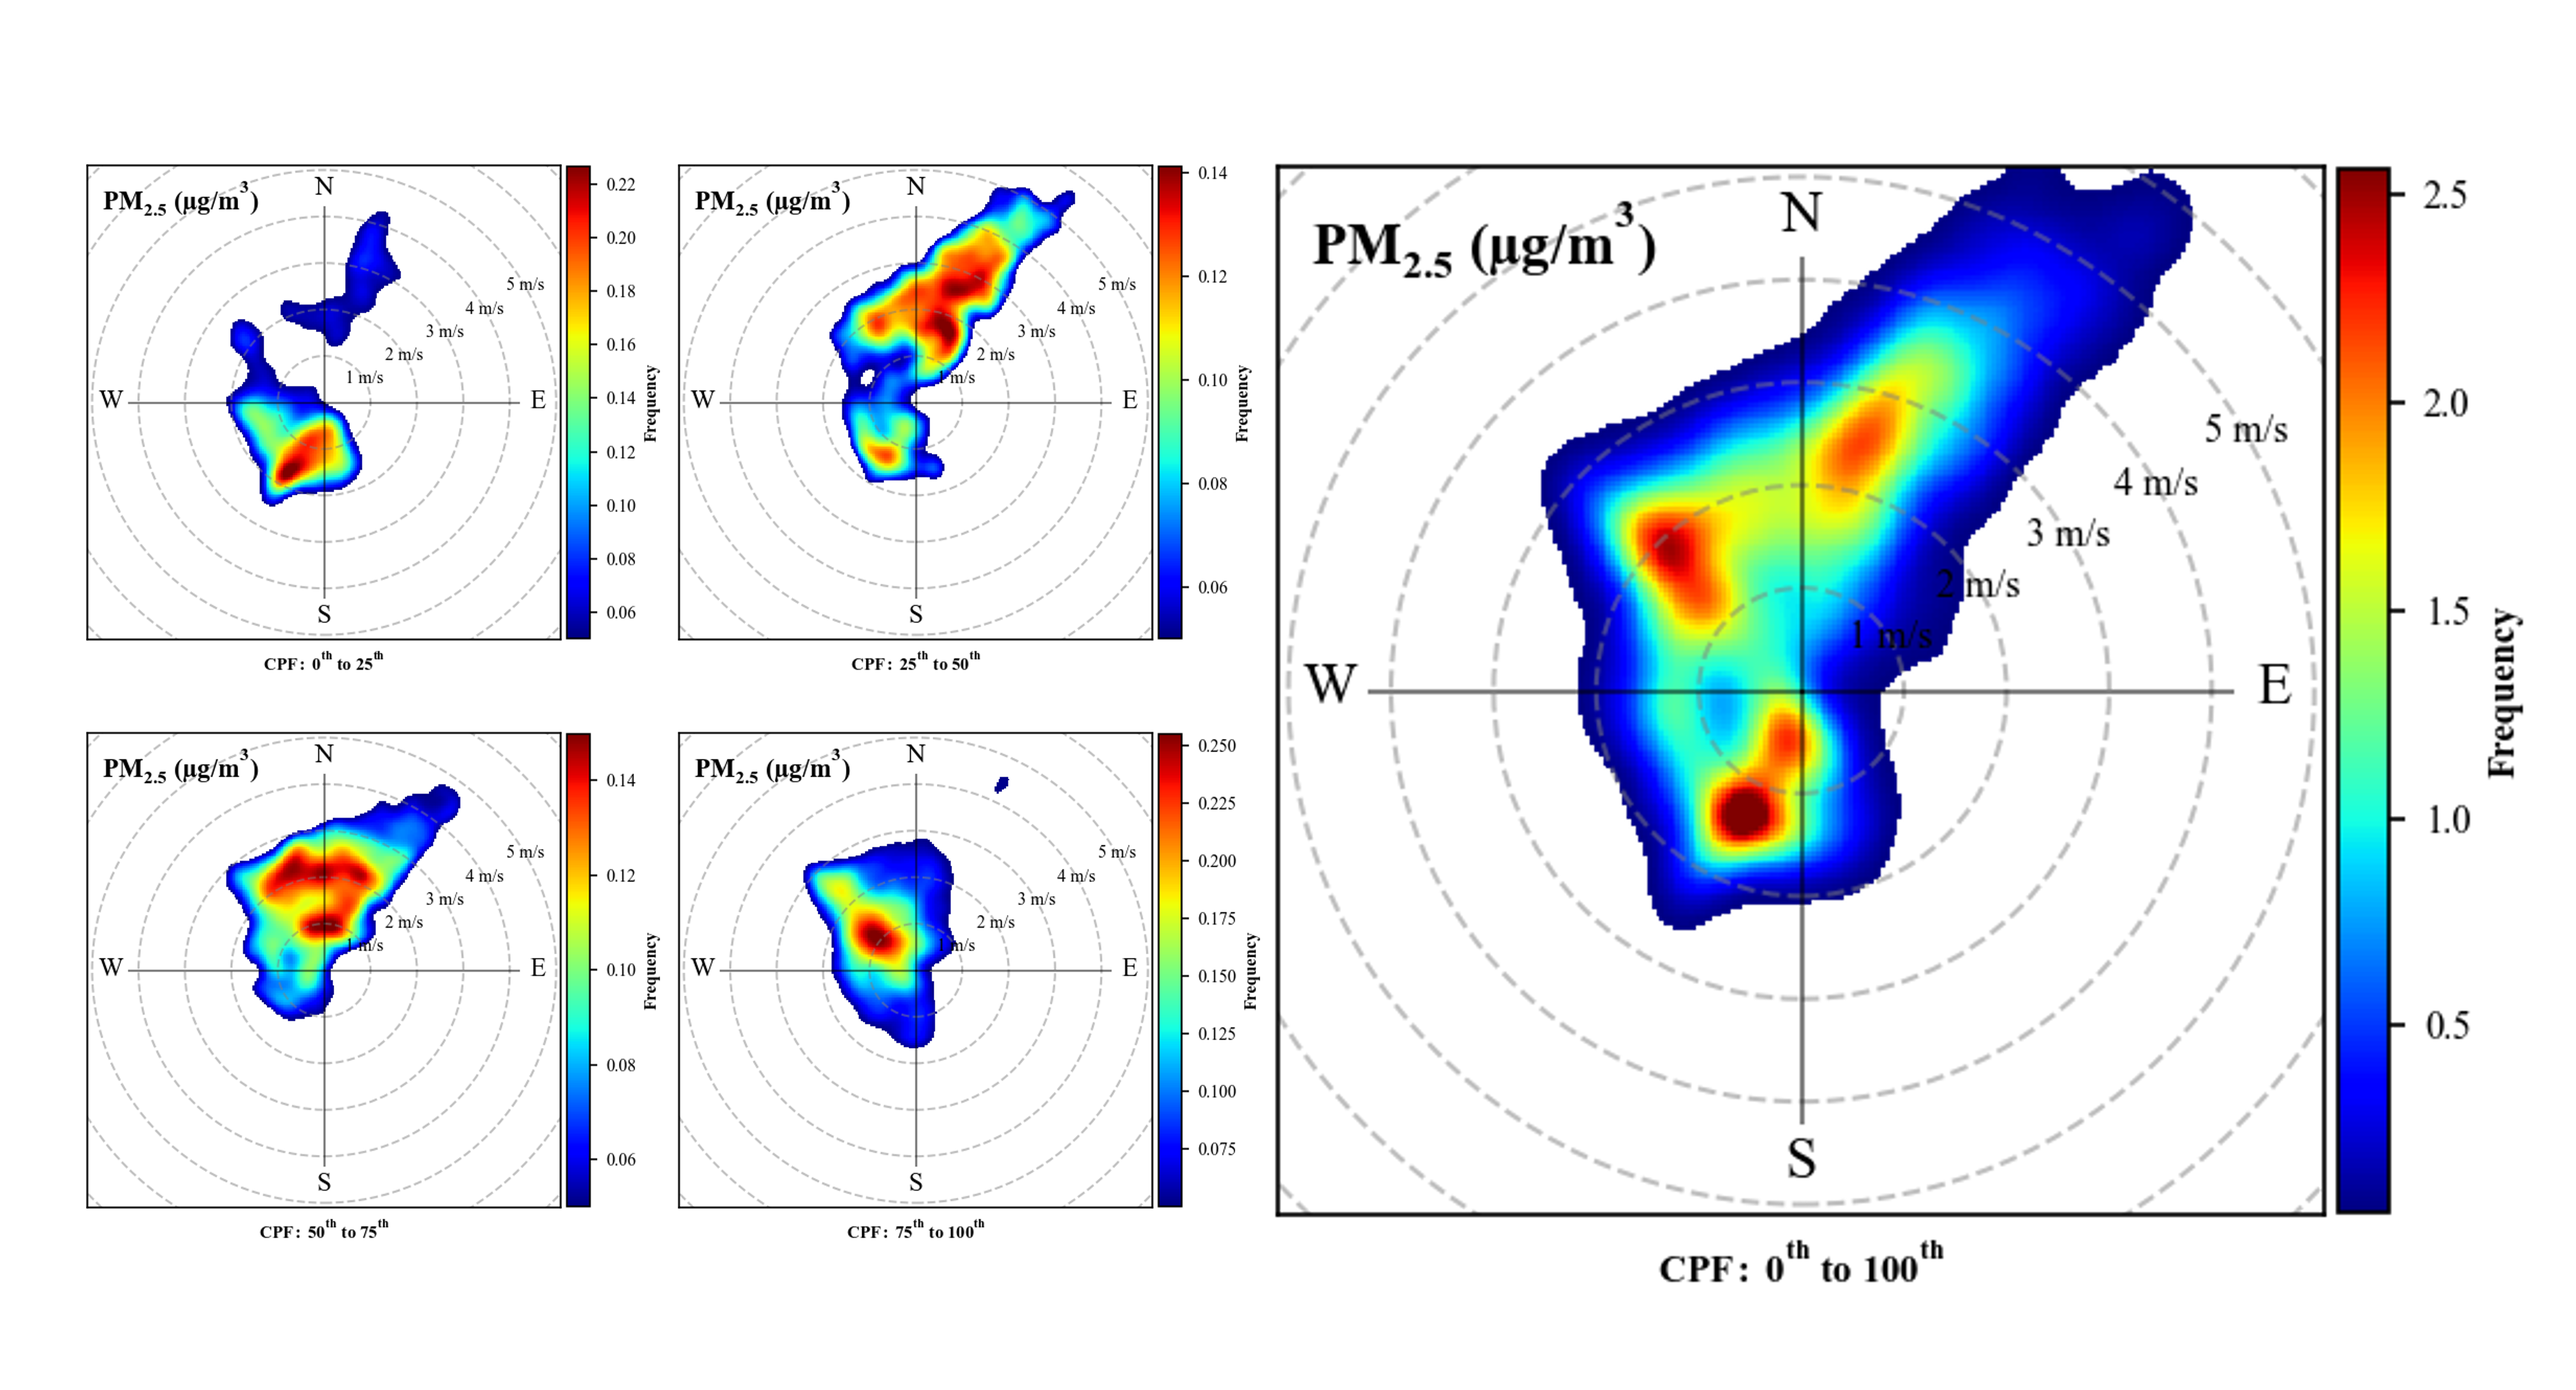
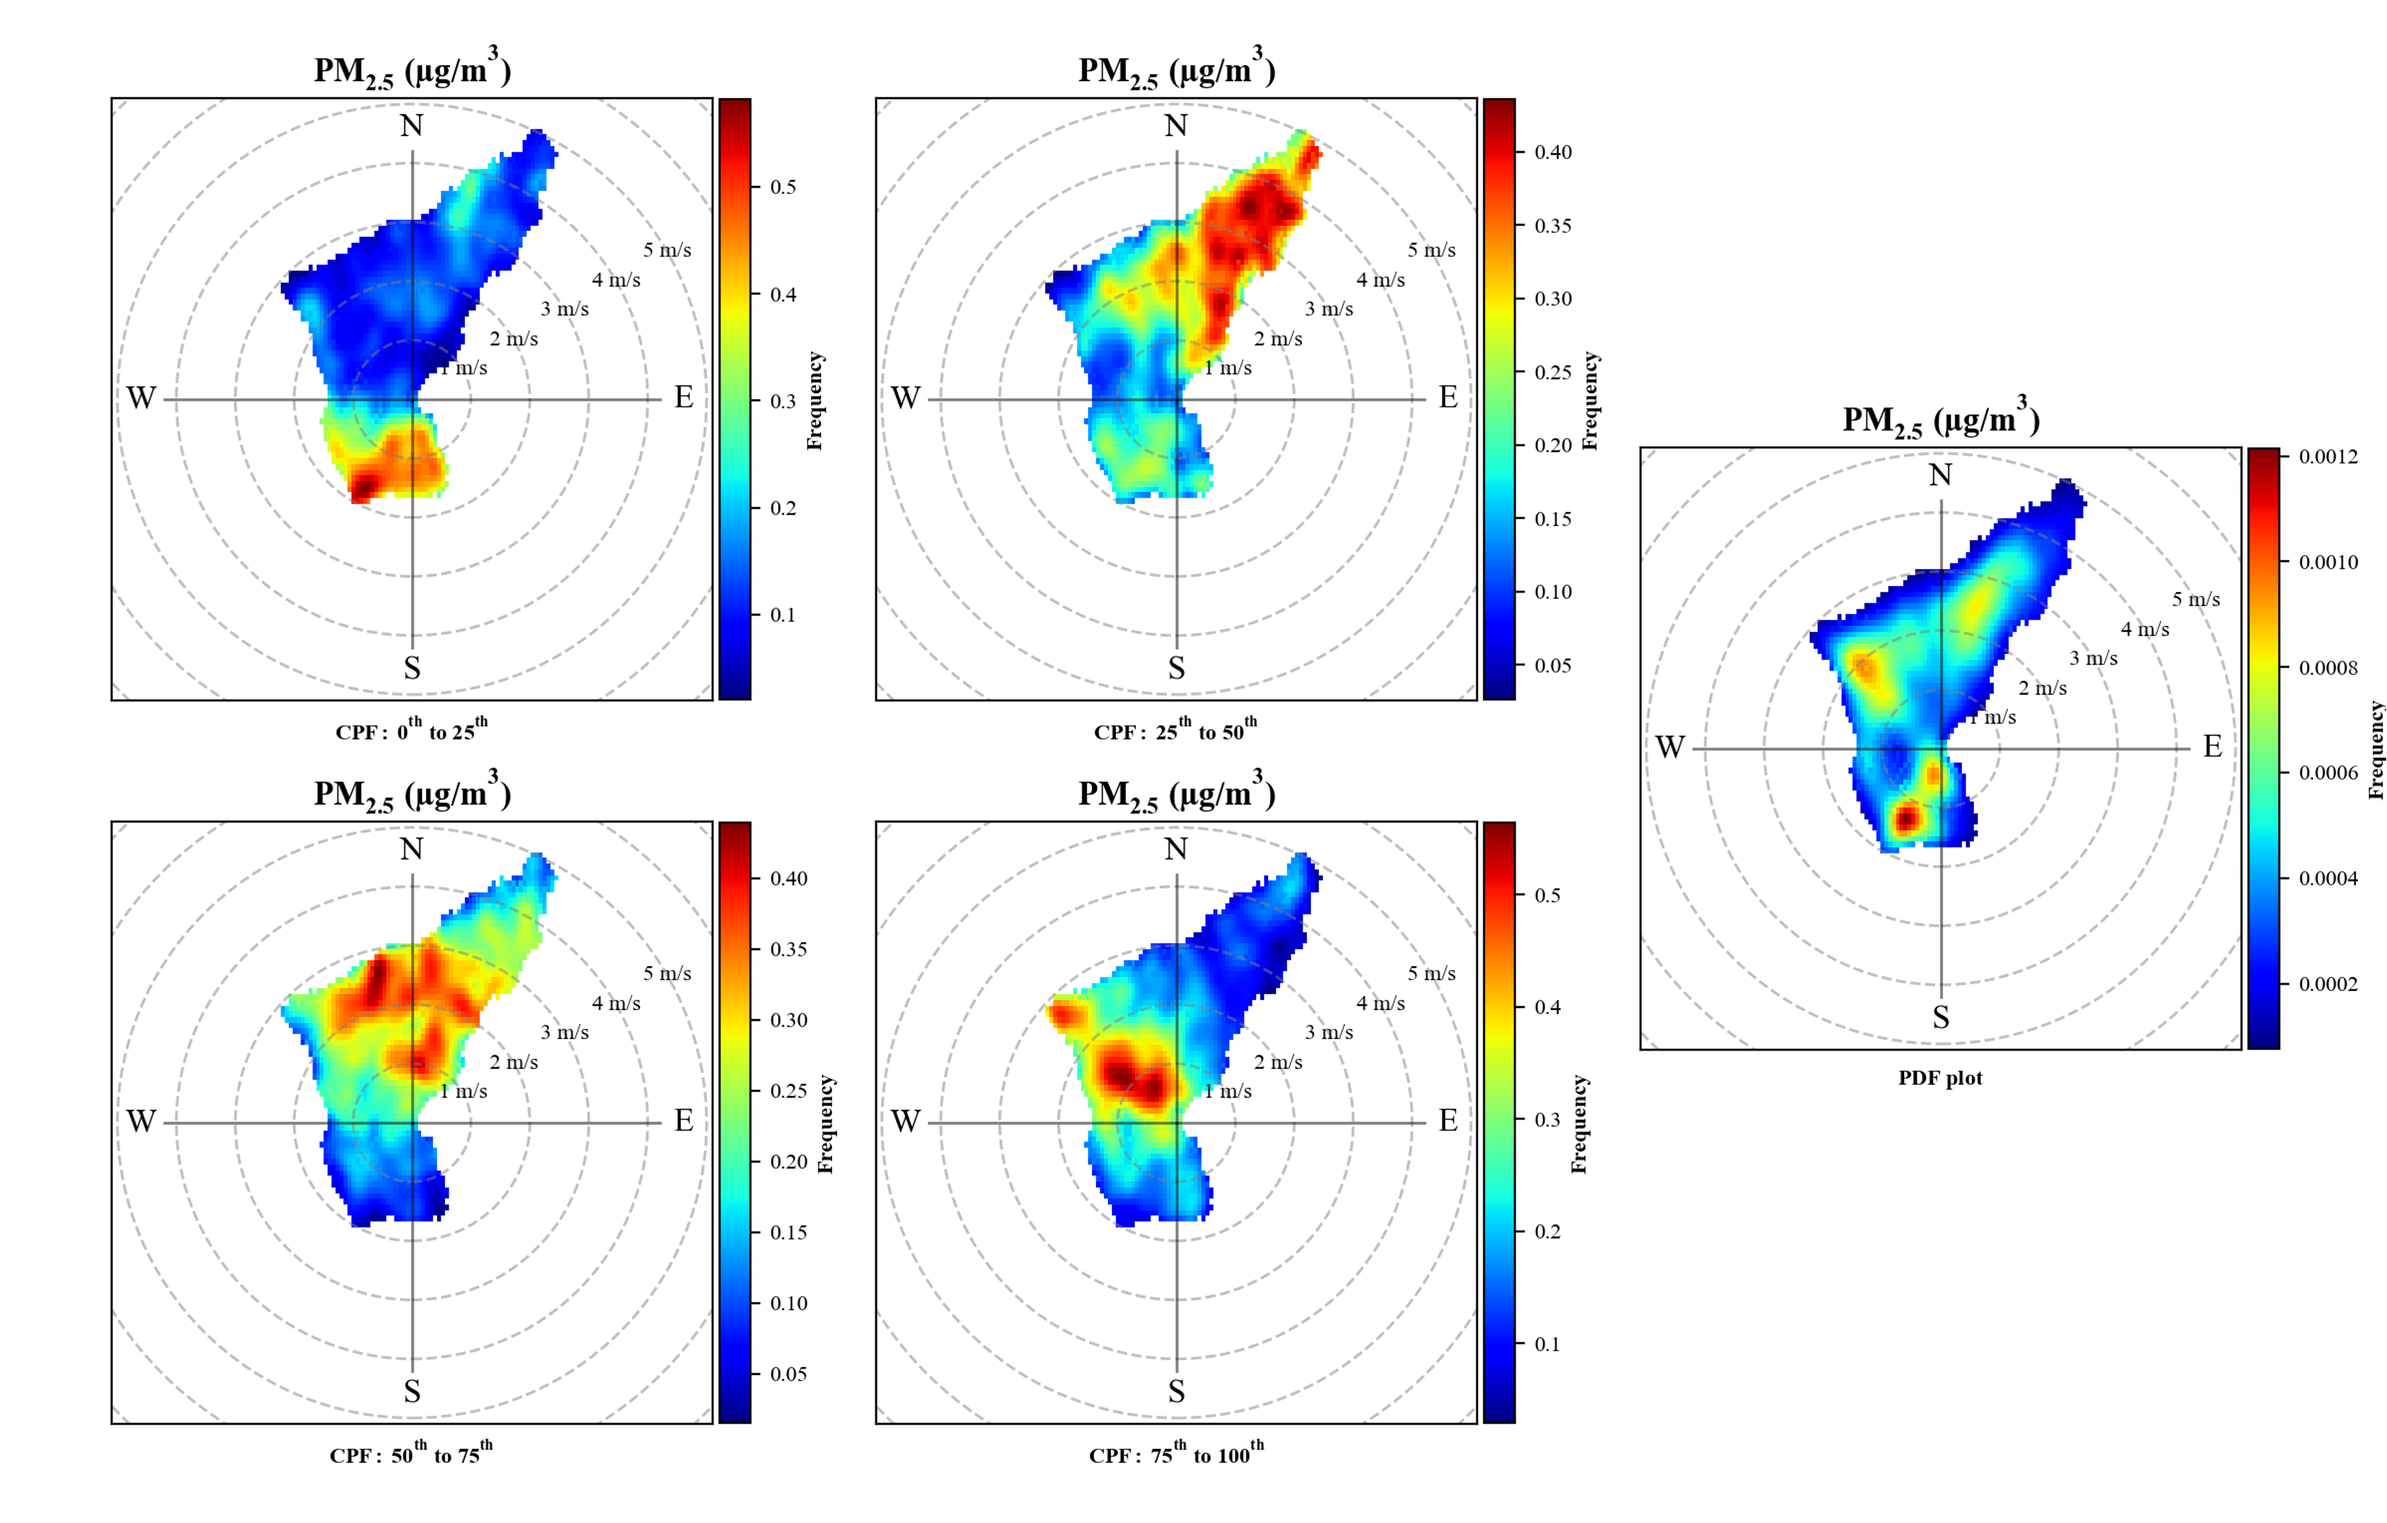
update conditional bivariate probability function

Changed region(s): [[0.0311, 0.0309, 1.0, 0.957], [0.4359, 0.9261, 0.5294, 0.957], [0.1246, 0.9261, 0.218, 0.957]]

diff --git a/DataPlot/plot/meteorology/meteorology.py b/DataPlot/plot/meteorology/meteorology.py
@@ -135,12 +135,11 @@ def CBPF(df: DataFrame,
          WD: Series | str,
          val: Series | str | None = None,
          percentile: list | float | int | None = None,
-         masked_less: bool = 0.05,
          max_ws: float | None = 5,
-         resolution: int = 25,
-         sigma: float | tuple = 5,
+         resolution: int = 100,
+         sigma: float | tuple = 2,
          rlabel_pos: float = 30,
-         bottom_text: str | None = None,
+         bottom_text: str | bool | None = None,
          **kwargs
          ):
     # conditional bivariate probability function (cbpf) python
@@ -152,19 +151,26 @@ def CBPF(df: DataFrame,
     df['u'] = df[WS].to_numpy() * np.sin(np.radians(df[WD].to_numpy()))
     df['v'] = df[WS].to_numpy() * np.cos(np.radians(df[WD].to_numpy()))
 
-    u_bins = np.arange(df.u.min(), df.u.max(), 1 / resolution)
-    v_bins = np.arange(df.v.min(), df.v.max(), 1 / resolution)
-
-    df['u_group'] = pd.cut(df['u'], u_bins)
-    df['v_group'] = pd.cut(df['v'], v_bins)
+    u_bins = np.linspace(df.u.min(), df.u.max(), resolution)
+    v_bins = np.linspace(df.v.min(), df.v.max(), resolution)
 
     # 使用 u_group 和 v_group 進行分組
+    df['u_group'] = pd.cut(df['u'], u_bins)
+    df['v_group'] = pd.cut(df['v'], v_bins)
     grouped = df.groupby(['u_group', 'v_group'], observed=False)
 
+    X, Y = np.meshgrid(u_bins, v_bins)
+
+    # Note:
+    # The CBPF is the ratio between the number of points in each cell and the total number of points.
+    # So, it is not equal to the probability density function (PDF) of the wind speed and wind direction.
+
     if percentile is None:
-        histogram, v_edges, u_edges = np.histogram2d(df.v, df.u, bins=(v_bins, u_bins))
-        X, Y = np.meshgrid(u_bins, v_bins)
-        bottom_text = rf'$CPF:\ 0^{{th}}\ to \ 100^{{th}}$'
+        histogram = (grouped[val].count() / grouped[val].count().sum()).unstack().values.T
+        # histogram, v_edges, u_edges = np.histogram2d(df.v, df.u, bins=(v_bins, u_bins))
+        # histogram = histogram / histogram.sum()
+        histogram = np.where(histogram == 0, np.nan, histogram)
+        bottom_text = rf'$PDF\ plot$'
 
     else:
         if not all(0 <= p <= 100 for p in (percentile if isinstance(percentile, list) else [percentile])):
@@ -175,30 +181,89 @@ def CBPF(df: DataFrame,
             thershold = df[val].quantile(percentile / 100)
             cond = lambda x: (x >= thershold).sum()
 
+        elif isinstance(percentile, list) and len(percentile) == 1:
+            # Extract the single element from the list
+            single_percentile = percentile[0]
+            bottom_text = rf'$CPF:\ >{int(single_percentile)}^{{th}}$'
+            threshold = df[val].quantile(single_percentile / 100)
+            cond = lambda x: (x >= threshold).sum()
+
         else:
             bottom_text = rf'$CPF:\ {int(percentile[0])}^{{th}}\ to\ {int(percentile[1])}^{{th}}$'
             thershold_small, thershold_large = df[val].quantile([percentile[0] / 100, percentile[1] / 100])
             cond = lambda x: ((x >= thershold_small) & (x < thershold_large)).sum()
 
-        histogram = (grouped[val].apply(cond) / grouped[val].count()).unstack().values
-        histogram = np.nan_to_num(histogram, nan=0.0001).T
-        # histogram = np.ma.masked_invalid(histogram).T
+        histogram = (grouped[val].apply(cond) / grouped[val].count()).unstack().values.T
 
-        X, Y = np.meshgrid(u_bins, v_bins)
+    # if np.isnan(histogram).all():
+    #     raise "CBPF_array contains only NaN values."
+    # else:
+    #     print(f"\nHistogram contains NaN before masking: {np.isnan(histogram).sum()}")
 
-    if masked_less:
-        masked_array = np.ma.masked_less(gaussian_filter(histogram, sigma=sigma), masked_less)
-        vmax = np.percentile(np.ma.compressed(masked_array), 99.5)
+    histogram_filled = np.nan_to_num(histogram, nan=0)  # 將 NaN 替換為 0
 
-    else:
-        masked_array = gaussian_filter(histogram, sigma=sigma)
-        vmax = np.percentile(masked_array, 99.5)
+    filtered_histogram = gaussian_filter(histogram_filled, sigma=sigma)
+    filtered_histogram[np.isnan(histogram)] = np.nan
+
+    def is_within_circle(center_row, center_col, row, col, radius):
+        return np.sqrt((center_row - row) ** 2 + (center_col - col) ** 2) <= radius
+
+    def remove_lonely_point(filtered_histogram, radius=3):
+        rows, cols = filtered_histogram.shape
+        data_positions = np.where(~np.isnan(filtered_histogram))
+
+        for row, col in zip(*data_positions):
+            valid_data_count = 0
+            for i in range(max(0, row - radius), min(rows, row + radius + 1)):
+                for j in range(max(0, col - radius), min(cols, col + radius + 1)):
+                    if (i, j) != (row, col) and is_within_circle(row, col, i, j, radius):
+                        if not np.isnan(filtered_histogram[i, j]):
+                            valid_data_count += 1
+
+            if valid_data_count <= 13:
+                filtered_histogram[row, col] = np.nan
+
+        return filtered_histogram
+
+    def fill_nan_with_mean(filtered_histogram, radius=3):
+        rows, cols = filtered_histogram.shape
+        nan_positions = np.where(np.isnan(filtered_histogram))
+
+        for row, col in zip(*nan_positions):
+            surrounding_values = []
+            surrounding_values_within_one = []
+            nan_count = 0
+
+            for i in range(max(0, row - radius), min(rows, row + radius + 1)):
+                for j in range(max(0, col - radius), min(cols, col + radius + 1)):
+                    if (i, j) != (row, col) and is_within_circle(row, col, i, j, radius):
+                        if np.isnan(filtered_histogram[i, j]):
+                            nan_count += 1
+                        else:
+                            surrounding_values.append(filtered_histogram[i, j])
+
+            for i in range(max(0, row - 2), min(rows, row + 2 + 1)):
+                for j in range(max(0, col - 2), min(cols, col + 2 + 1)):
+                    if (i, j) != (row, col) and is_within_circle(row, col, i, j, 2):
+                        if np.isnan(filtered_histogram[i, j]):
+                            pass
+                        else:
+                            surrounding_values_within_one.append(filtered_histogram[i, j])
+
+            if nan_count < 13 and surrounding_values_within_one:
+                filtered_histogram[row, col] = np.mean(surrounding_values)
+
+        return filtered_histogram
+
+    # Apply the function to your data
+    filtered_histogram = remove_lonely_point(filtered_histogram)
+    filtered_histogram = fill_nan_with_mean(filtered_histogram)
 
     # plot
     fig, ax = plt.subplots()
     fig.subplots_adjust(left=0)
 
-    surf = ax.pcolormesh(X, Y, masked_array, shading='auto', vmax=vmax, cmap='jet', antialiased=True)
+    surf = ax.pcolormesh(X, Y, filtered_histogram, shading='auto', cmap='jet', antialiased=True)
 
     max_ws = max_ws or np.concatenate((abs(df.u), abs(df.v))).max()  # Get the maximum value of the wind speed
 
@@ -231,11 +296,11 @@ def CBPF(df: DataFrame,
            yticklabels=[],
            aspect='equal',
            )
-    if bottom_text is not None:
+    if bottom_text:
         ax.text(0.50, -0.05, bottom_text, fontweight='bold', fontsize=8, va='center', ha='center',
                 transform=ax.transAxes)
 
-    ax.text(0.03, 0.97, Unit(val), fontweight='bold', fontsize=12, va='top', ha='left', transform=ax.transAxes)
+    ax.text(0.5, 1.05, Unit(val), fontweight='bold', fontsize=12, va='center', ha='center', transform=ax.transAxes)
 
     cbar = plt.colorbar(surf, ax=ax, label='Frequency', pad=0.01, fraction=0.04)
     cbar.ax.yaxis.label.set_fontsize(8)
@@ -243,17 +308,10 @@ def CBPF(df: DataFrame,
 
 
 if __name__ == "__main__":
-    df = DataBase().copy()
-    df1 = df[['WS', 'WD', 'PM25', 'NO2', 'O3', 'SO2']]
+    df = DataBase('/Users/chanchihyu/data/2020能見度計畫/data/All_data.csv').copy()
 
-    wind_rose(df1, 'WS', 'WD', typ='bar')
-    wind_rose(df1, 'WS', 'WD', 'PM25', typ='scatter')
-
-    # CBPF(df1, 'WS', 'WD', 'PM25')
-    # CBPF(df1, 'WS', 'WD', 'PM25', percentile=[0, 25])
-    # CBPF(df1, 'WS', 'WD', 'PM25', percentile=[25, 50])
-    # CBPF(df1, 'WS', 'WD', 'PM25', percentile=[50, 75])
-    # CBPF(df1, 'WS', 'WD', 'PM25', percentile=[75, 100])
-    #
-    # CBPF(df1, 'WS', 'WD', 'NO2', percentile=75)
-    # CBPF(df1, 'WS', 'WD', 'SO2', percentile=75)
+    CBPF(df, 'WS', 'WD', 'PM25')
+    CBPF(df, 'WS', 'WD', 'PM25', percentile=[0, 25])
+    CBPF(df, 'WS', 'WD', 'PM25', percentile=[25, 50])
+    CBPF(df, 'WS', 'WD', 'PM25', percentile=[50, 75])
+    CBPF(df, 'WS', 'WD', 'PM25', percentile=[75, 100])

diff --git a/example/CBPF.py b/example/CBPF.py
@@ -1,14 +1,13 @@
 from DataPlot import *
 
 if __name__ == '__main__':
-    df = DataBase().copy()
-    df1 = df[['WS', 'WD', 'PM25', 'NO2', 'O3', 'SO2']]
+    df = DataBase('/Users/chanchihyu/data/2020能見度計畫/data/All_data.csv').copy()
 
-    plot.meteorology.wind_rose(df1, 'WS', 'WD', typ='bar')
-    plot.meteorology.wind_rose(df1, 'WS', 'WD', 'PM25', typ='scatter')
+    plot.meteorology.wind_rose(df, 'WS', 'WD', typ='bar')
+    plot.meteorology.wind_rose(df, 'WS', 'WD', 'PM25', typ='scatter')
 
-    plot.meteorology.CBPF(df1, 'WS', 'WD', 'PM25')
-    plot.meteorology.CBPF(df1, 'WS', 'WD', 'PM25', percentile=[0, 25])
-    plot.meteorology.CBPF(df1, 'WS', 'WD', 'PM25', percentile=[25, 50])
-    plot.meteorology.CBPF(df1, 'WS', 'WD', 'PM25', percentile=[50, 75])
-    plot.meteorology.CBPF(df1, 'WS', 'WD', 'PM25', percentile=[75, 100])
+    plot.meteorology.CBPF(df, 'WS', 'WD', 'PM25')
+    plot.meteorology.CBPF(df, 'WS', 'WD', 'PM25', percentile=[0, 25])
+    plot.meteorology.CBPF(df, 'WS', 'WD', 'PM25', percentile=[25, 50])
+    plot.meteorology.CBPF(df, 'WS', 'WD', 'PM25', percentile=[50, 75])
+    plot.meteorology.CBPF(df, 'WS', 'WD', 'PM25', percentile=[75, 100])
